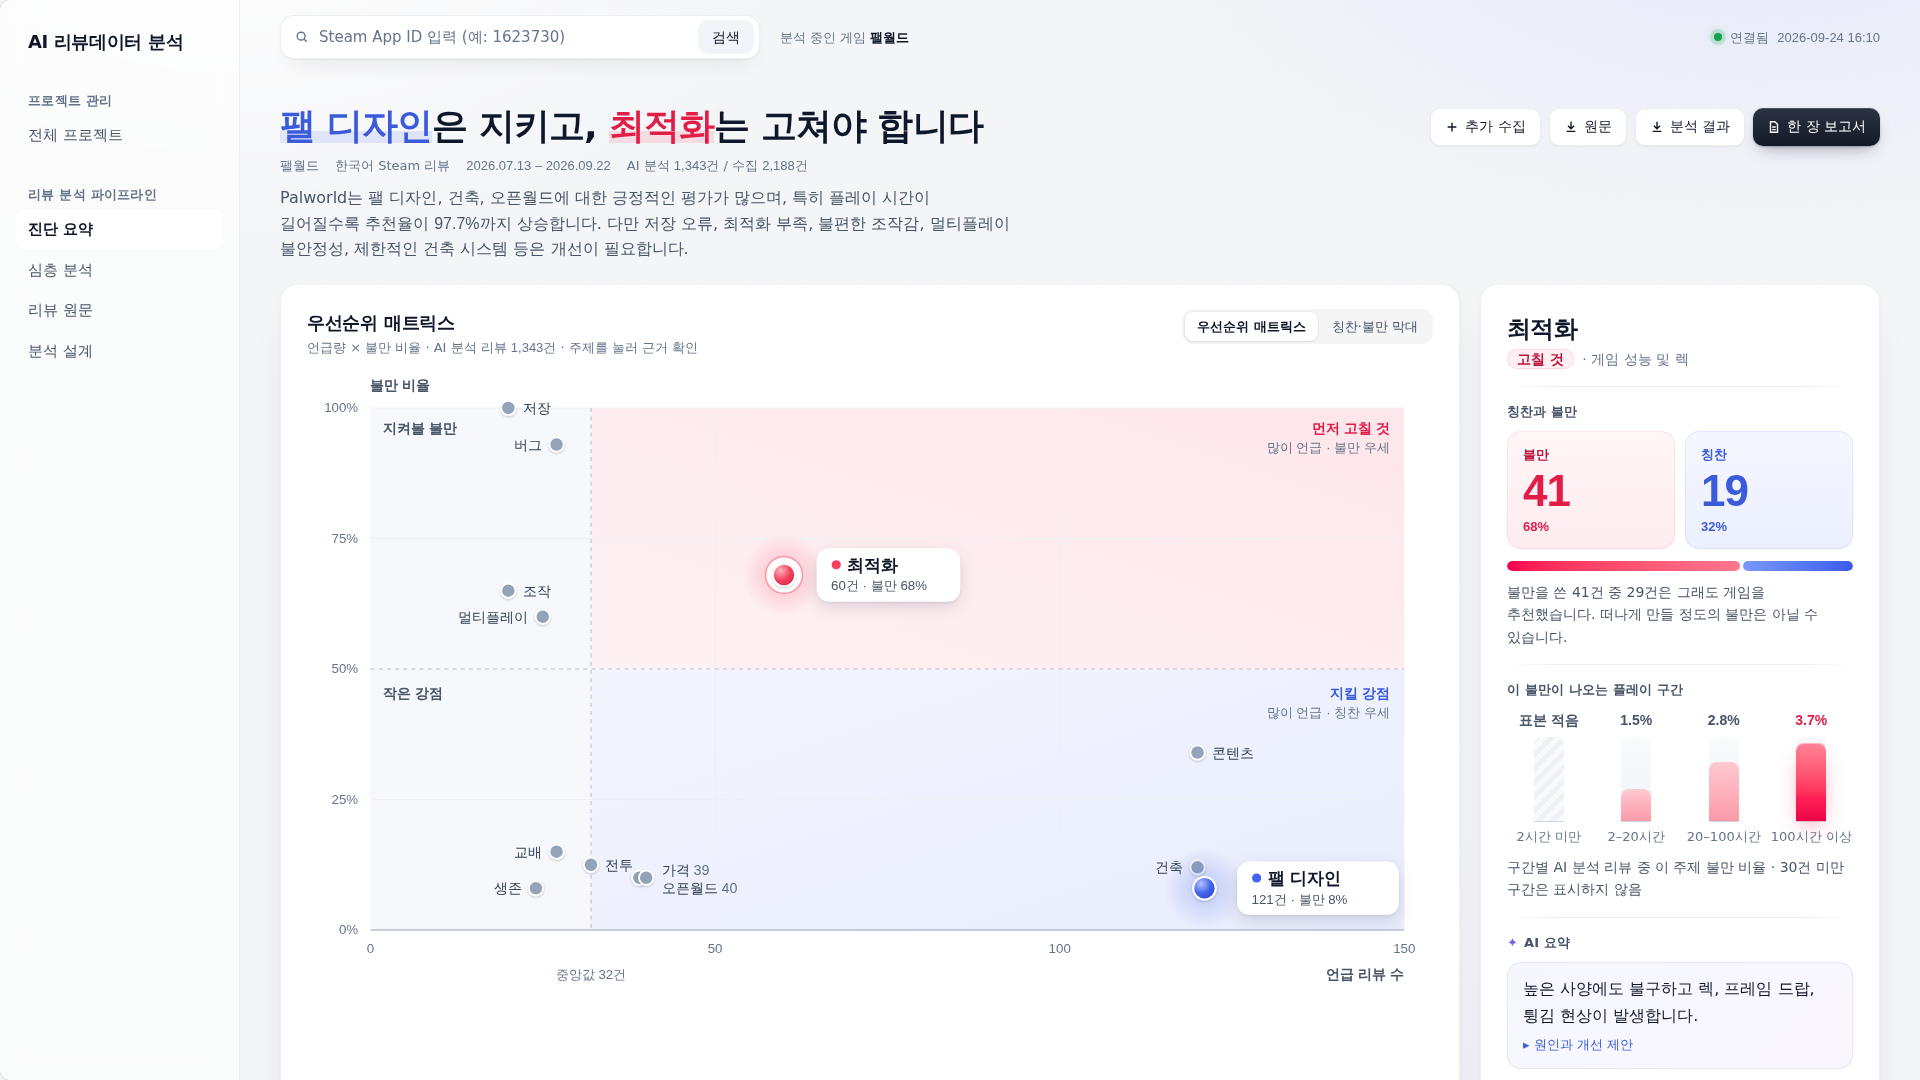
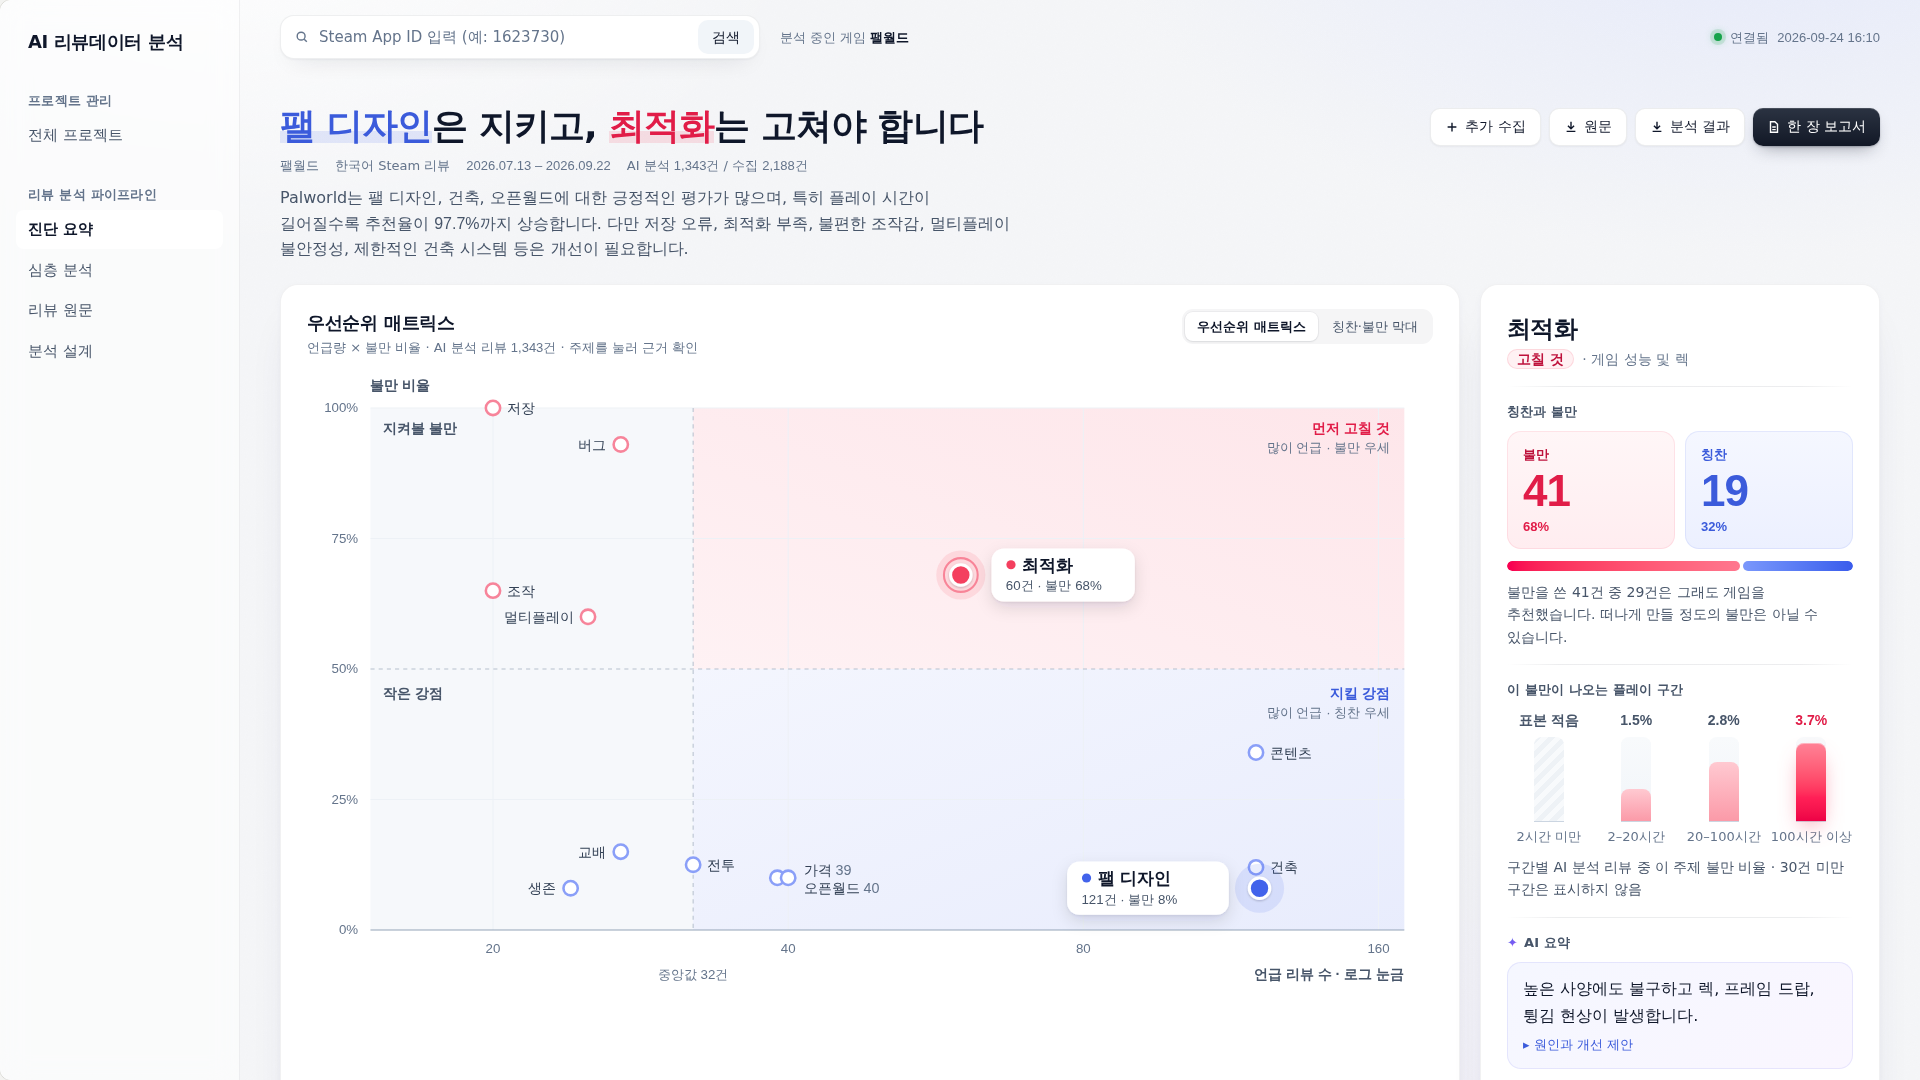
Spread crowded scatter marks and redesign markers
Most topics sat in the left quarter of the priority matrix because mention
counts are skewed on a linear 0-150 axis. Surface polish now calls for a
labeled log scale on skewed count axes, and for zone-tinted hollow rings
on context points with solid, white-ringed highlighted points instead of
glossy spheres. Adds scenario 28 and refreshes the surface-polish case
captures, preview and feedback log.

Claude-Session: https://claude.ai/code/session_01NamhXXNCefJQK75Tp17SMe

diff --git a/evals/cases/surface-polish/layer-preview.html b/evals/cases/surface-polish/layer-preview.html
@@ -305,7 +305,7 @@ const LAYERS=[
   {id:'color',name:'색감',hint:'요즘 톤의 선명한 로즈·블루, 슬레이트 회색',
    say:'색감: 올드한 진홍·남색 대신 요즘 톤으로 바꿔줘. 색마다 "칠하는 색"과 "글자 색"을 따로 둬: 고칠 것은 칠하기 #F43F5E, 글자 #E11D48 / 지킬 것은 칠하기 #4263EB, 글자 #3B5BDB. 회색은 슬레이트 계열 세 단계(#0F172A 본문, #475569 보조, #64748B 약함)와 선 #E2E8F0만 써줘. 검게 채운 버튼은 한 장 보고서 하나만 남기고, 검색 버튼은 연회색(#F1F5F9), 탭 선택은 흰 칩, 불만 리뷰 버튼은 연분홍(#FFF1F3) 배경에 진한 로즈(#BE123C) 글씨로(연한 배경 위 글씨는 대비 4.5:1 이상). 차트 사분면 배경색은 한눈에 빨강·파랑이 구분되게 유지해줘: 먼저 고칠 것 칸은 로즈 13%→7%, 지킬 강점 칸은 블루 12%→6%의 옅은 대각 그라데이션, 왼쪽 두 칸은 아주 옅은 청회색(#F6F8FB).'},
   {id:'data',name:'데이터 마크',hint:'그라데이션 막대, 둥근 끝, 은은한 빛, 수치 타일',
-   say:'데이터 마크 스타일링: 막대·점·비율 막대를 단색으로 칠하지 말고 입체감을 줘. 막대는 위쪽이 밝고(#FF95A3) 아래로 갈수록 진해지는(#F43F5E) 세로 그라데이션, 위쪽 모서리 10px 둥글게, 윗면에 1px 흰 하이라이트, 막대 아래로 같은 색의 부드러운 빛 그림자(불투명도 50% 내외, 가장 큰 막대는 조금 더 강하게). 막대 뒤에는 아주 옅은 트랙 배경을 깔아줘. 칭찬/불만 비율 막대는 높이 10px, 양끝 둥글게, 가로 그라데이션. 차트 점은 지도 크기에 비해 작지 않게 키워줘: 일반 점 반지름 7px, 강조 점 반지름 11px(선택 링 18px). 강조 점은 왼쪽 위가 밝은 원형 그라데이션으로 구슬 같은 볼륨을 줘. 오른쪽 패널의 불만 41 / 칭찬 19는 각 색의 아주 옅은 그라데이션 배경을 가진 두 개의 수치 타일로, "고칠 것"은 연분홍 알약 모양 배지로 바꿔줘. 데이터 값과 좌표는 절대 바꾸지 마.'},
+   say:'데이터 마크 스타일링: 막대·점·비율 막대를 단색으로 칠하지 말고 입체감을 줘. 막대는 위쪽이 밝고(#FF95A3) 아래로 갈수록 진해지는(#F43F5E) 세로 그라데이션, 위쪽 모서리 10px 둥글게, 윗면에 1px 흰 하이라이트, 막대 아래로 같은 색의 부드러운 빛 그림자(불투명도 50% 내외, 가장 큰 막대는 조금 더 강하게). 막대 뒤에는 아주 옅은 트랙 배경을 깔아줘. 칭찬/불만 비율 막대는 높이 10px, 양끝 둥글게, 가로 그라데이션. 차트 점: 일반 점은 반지름 7px의 속이 빈 링(흰 채움 + 2.5px 테두리, 불만 우세 칸은 연한 로즈 #F7849A, 칭찬 우세 칸은 연한 블루 #8A9FF8), 강조 점은 반지름 10px의 꽉 찬 색에 3px 흰 테두리, 그 뒤에 같은 색 12% 원(반지름 24px), 선택된 점은 16.5px 링을 한 겹 더. 광택 구슬 같은 그라데이션은 쓰지 마. 언급 수처럼 한쪽에 몰리는 개수 축은 로그 눈금(20·40·80·160)으로 바꿔 점이 고르게 퍼지게 하고, 축 이름에 "로그 눈금"이라고 표시해줘. 오른쪽 끝에 가까운 점의 라벨 칩은 점 왼쪽에 둬. 오른쪽 패널의 불만 41 / 칭찬 19는 각 색의 아주 옅은 그라데이션 배경을 가진 두 개의 수치 타일로, "고칠 것"은 연분홍 알약 모양 배지로 바꿔줘. 데이터 값과 좌표는 절대 바꾸지 마.'},
   {id:'detail',name:'디테일',hint:'형광펜 강조, 점 후광, 그림자 라벨, AI 요약 박스',
    say:'디테일: 제목의 "팰 디자인", "최적화" 아래쪽 절반에 같은 색 13~14% 형광펜 띠를 깔아줘. 차트의 강조 점 두 개에는 부드러운 후광을 주고, 라벨은 테두리 박스 대신 그림자만 있는 흰 칩으로 바꿔줘. 회색 점에는 흰 테두리와 아주 작은 그림자를 줘. 연결 상태 점에 옅은 초록 빛 링, 패널 구분선은 양 끝이 흐려지는 선, AI 요약은 옅은 청보라 그라데이션 박스에 ✦ 표시, 대표 리뷰는 옅은 배경 칩에 큰 따옴표 장식을 넣어줘.'}
 ];
@@ -330,7 +330,7 @@ function chart(){
   const t1=C?'#334155':'#374151', t2=C?'#475569':'#4B5563', t3=C?'#64748B':'#6B7280', gray=C?'#94A3B8':'#6B7280', grid=C?'#EDF1F6':'#E5E7EB';
   const font=T?'"Noto Sans KR",sans-serif':'system-ui,"Noto Sans KR",sans-serif', num=T?'"Manrope","Noto Sans KR",sans-serif':font;
   const fs=T?14:13, ft=T?13:12, lw=T?500:400;
-  const W=1100,H=610,l=62,r=28,t=40,b=60,pw=W-l-r,ph=H-t-b, sx=x=>l+x/150*pw, sy=y=>t+(1-y/100)*ph;
+  const W=1100,H=610,l=62,r=28,t=40,b=60,pw=W-l-r,ph=H-t-b, X0=15, X1=170, sx=x=>V?l+(Math.log(x)-Math.log(X0))/(Math.log(X1)-Math.log(X0))*pw:l+x/150*pw, sy=y=>t+(1-y/100)*ph;
   const f=`font-family='${font}'`, fn=`font-family='${num}'`;
   let s=`<svg viewBox="0 0 ${W} ${H}" role="img" aria-label="주제별 언급 리뷰 수와 불만 비율 산점도. 최적화 60건 불만 68%, 팰 디자인 121건 불만 8%."><defs>
     <linearGradient id="lF" x1="1" y1="0" x2="0" y2="1"><stop offset="0" stop-color="${fixF}" stop-opacity=".13"/><stop offset="1" stop-color="${fixF}" stop-opacity=".07"/></linearGradient>
@@ -344,15 +344,15 @@ function chart(){
     <filter id="sh" x="-30%" y="-50%" width="160%" height="220%"><feDropShadow dx="0" dy="6" stdDeviation="8" flood-color="#0F172A" flood-opacity=".12"/><feDropShadow dx="0" dy="1" stdDeviation="1" flood-color="#0F172A" flood-opacity=".08"/></filter>
     <filter id="ms" x="-100%" y="-100%" width="300%" height="300%"><feDropShadow dx="0" dy="1" stdDeviation="1.2" flood-color="#0F172A" flood-opacity=".22"/></filter>
   </defs>`;
-  const qx=sx(32), qw=sx(150)-sx(32);
+  const qx=sx(32), qw=l+pw-qx;
   if(C){ s+=`<rect x="${l}" y="${t}" width="${qx-l}" height="${ph}" fill="#F6F8FB"/><rect x="${qx}" y="${sy(100)}" width="${qw}" height="${sy(50)-sy(100)}" fill="url(#lF)"/><rect x="${qx}" y="${sy(50)}" width="${qw}" height="${sy(0)-sy(50)}" fill="url(#lK)"/>`; }
   else { s+=`<rect x="${qx}" y="${sy(100)}" width="${qw}" height="${sy(50)-sy(100)}" fill="#FDECEC"/><rect x="${qx}" y="${sy(50)}" width="${qw}" height="${sy(0)-sy(50)}" fill="#EAF1FD"/><rect x="${l}" y="${t}" width="${qx-l}" height="${ph}" fill="#F9FAFB"/>`; }
   [25,75,100].forEach(v=>s+=`<line x1="${l}" x2="${l+pw}" y1="${sy(v)}" y2="${sy(v)}" stroke="${grid}"/>`);
-  [50,100].forEach(v=>s+=`<line x1="${sx(v)}" x2="${sx(v)}" y1="${t}" y2="${t+ph}" stroke="${grid}"/>`);
+  (V?[20,40,80,160]:[50,100]).forEach(v=>s+=`<line x1="${sx(v)}" x2="${sx(v)}" y1="${t}" y2="${t+ph}" stroke="${grid}"/>`);
   [0,25,50,75,100].forEach(v=>s+=`<text x="${l-12}" y="${sy(v)+4}" text-anchor="end" font-size="${ft}" fill="${t3}" ${fn}>${v}%</text>`);
-  [0,50,100,150].forEach(v=>s+=`<text x="${sx(v)}" y="${t+ph+22}" text-anchor="middle" font-size="${ft}" fill="${t3}" ${fn}>${v}</text>`);
+  (V?[20,40,80,160]:[0,50,100,150]).forEach(v=>s+=`<text x="${sx(v)}" y="${t+ph+22}" text-anchor="middle" font-size="${ft}" fill="${t3}" ${fn}>${v}</text>`);
   s+=`<text x="${l}" y="${t-18}" font-size="${ft+1}" fill="${t2}" ${f} font-weight="600">불만 비율</text>`;
-  s+=`<text x="${l+pw}" y="${t+ph+48}" text-anchor="end" font-size="${ft+1}" fill="${t2}" ${f} font-weight="600">언급 리뷰 수</text>`;
+  s+=`<text x="${l+pw}" y="${t+ph+48}" text-anchor="end" font-size="${ft+1}" fill="${t2}" ${f} font-weight="600">${V?'언급 리뷰 수 · 로그 눈금':'언급 리뷰 수'}</text>`;
   const ref=C?'#B6C0CE':'#9CA3AF';
   s+=`<line x1="${qx}" x2="${qx}" y1="${t}" y2="${t+ph}" stroke="${ref}" stroke-dasharray="4 4"/>`;
   s+=`<line x1="${l}" x2="${l+pw}" y1="${sy(50)}" y2="${sy(50)}" stroke="${ref}" stroke-dasharray="4 4"/>`;
@@ -364,20 +364,26 @@ function chart(){
   s+=q(l+pw-14,sy(50)+28,'end','지킬 강점',keep,'많이 언급 · 칭찬 우세');
   s+=q(l+12,sy(50)+28,'start','작은 강점',t2);
   const mr=V?7:5;
-  const mark=(x,y)=>`<circle cx="${x}" cy="${y}" r="${mr}" fill="${gray}"${D?` stroke="#fff" stroke-width="1.8" filter="url(#ms)"`:''}/>`;
+  const mark=(x,y,up)=>V?`<circle cx="${x}" cy="${y}" r="${mr}" fill="#fff" stroke="${up?'#F7849A':'#8A9FF8'}" stroke-width="2.5"/>`:`<circle cx="${x}" cy="${y}" r="${mr}" fill="${gray}"${D?` stroke="#fff" stroke-width="1.8" filter="url(#ms)"`:''}/>`;
   const tip=(x,y,name,val)=>{if(!on.motion)return '';const w=Math.ceil(Math.max(name.length*14+26,val.length*7.4+26)),tx=x+w+18>l+pw?x-w-14:x+14,ty=y-50;
     return `<g class="tip"><rect x="${tx}" y="${ty}" width="${w}" height="40" rx="9" fill="#0F172A"/><text x="${tx+12}" y="${ty+17}" font-size="12.5" font-weight="700" fill="#fff" ${f}>${name}</text><text x="${tx+12}" y="${ty+32}" font-size="11.5" fill="#CBD5E1" ${fn}>${val}</text></g>`;};
   TOPICS.forEach(p=>{const x=sx(p.x),y=sy(p.y);
-    const lx=p.lp==='r'?x+mr+7:x-mr-7, an=p.lp==='r'?'start':'end';
-    s+=`<g class="pt"><circle cx="${x}" cy="${y}" r="15" fill="transparent"/>`+mark(x,y)+`<text x="${lx}" y="${y+5}" text-anchor="${an}" font-size="${fs}" font-weight="${lw}" fill="${t1}" ${f}>${p.n}</text>`+tip(x,y,p.n,`약 ${p.x}건 · 불만 약 ${p.y}%`)+`</g>`;});
-  PAIR.forEach(p=>{const x=sx(p.x),y=sy(p.y);s+=`<g class="pt"><circle cx="${x}" cy="${y}" r="9" fill="transparent"/>`+mark(x,y)+tip(x,y,p.n,`${p.x}건 · 불만 ${p.y}%`)+`</g>`;});
+    const side=(V&&p.n==='건축')?'r':p.lp, lx=side==='r'?x+mr+7:x-mr-7, an=side==='r'?'start':'end';
+    s+=`<g class="pt"><circle cx="${x}" cy="${y}" r="15" fill="transparent"/>`+mark(x,y,p.y>=50)+`<text x="${lx}" y="${y+5}" text-anchor="${an}" font-size="${fs}" font-weight="${lw}" fill="${t1}" ${f}>${p.n}</text>`+tip(x,y,p.n,`약 ${p.x}건 · 불만 약 ${p.y}%`)+`</g>`;});
+  PAIR.forEach(p=>{const x=sx(p.x),y=sy(p.y);s+=`<g class="pt"><circle cx="${x}" cy="${y}" r="9" fill="transparent"/>`+mark(x,y,false)+tip(x,y,p.n,`${p.x}건 · 불만 ${p.y}%`)+`</g>`;});
   const px=sx(40)+mr+8, py=sy(10);
   s+=`<text x="${px}" y="${py-3}" font-size="${fs}" font-weight="${lw}" fill="${t1}" ${f}>가격 <tspan ${fn} fill="${t3}">39</tspan></text><text x="${px}" y="${py+15}" font-size="${fs}" font-weight="${lw}" fill="${t1}" ${f}>오픈월드 <tspan ${fn} fill="${t3}">40</tspan></text>`;
   const hi=(p,col,fillc,halo,ball,sel)=>{const x=sx(p.x),y=sy(p.y);let o='';
-    if(D) o+=`<circle cx="${x}" cy="${y}" r="${V?40:28}" fill="url(#${halo})"/>`;
-    if(sel) o+=`<circle cx="${x}" cy="${y}" r="${V?18:12.5}" fill="${D?'#fff':'none'}" stroke="${fillc}" stroke-width="1.6" ${D?'stroke-opacity=".45"':''}/>`;
-    o+=`<circle cx="${x}" cy="${y}" r="${V?11:7}" fill="${V?`url(#${ball})`:fillc}"${D?` stroke="#fff" stroke-width="2" filter="url(#ms)"`:''}/>`;
-    const bx=x+(V?32:24), by=y-26, bw=p.n.length>3?158:140, bh=52;
+    if(V){
+      if(D) o+=`<circle cx="${x}" cy="${y}" r="24" fill="${fillc}" opacity=".12"/>`;
+      if(sel) o+=`<circle cx="${x}" cy="${y}" r="16.5" fill="none" stroke="${fillc}" stroke-width="2" stroke-opacity=".55"/>`;
+      o+=`<circle cx="${x}" cy="${y}" r="10" fill="${fillc}" stroke="#fff" stroke-width="3"${D?` filter="url(#ms)"`:''}/>`;
+    } else {
+      if(D) o+=`<circle cx="${x}" cy="${y}" r="28" fill="url(#${halo})"/>`;
+      if(sel) o+=`<circle cx="${x}" cy="${y}" r="12.5" fill="${D?'#fff':'none'}" stroke="${fillc}" stroke-width="1.6" ${D?'stroke-opacity=".45"':''}/>`;
+      o+=`<circle cx="${x}" cy="${y}" r="7" fill="${fillc}"${D?` stroke="#fff" stroke-width="2" filter="url(#ms)"`:''}/>`;
+    }
+    const bw=p.n.length>3?158:140, bh=52, gap=V?30:24, bx=x+gap+bw>l+pw?x-gap-bw:x+gap, by=y-26;
     if(D) o+=`<rect x="${bx}" y="${by}" width="${bw}" height="${bh}" rx="12" fill="#fff" filter="url(#sh)"/>`;
     else o+=`<rect x="${bx}" y="${by}" width="${bw}" height="${bh}" rx="6" fill="#fff" stroke="${col}" stroke-width="1.2"/>`;
     if(on.refine){o+=`<circle cx="${bx+19}" cy="${by+16}" r="4.5" fill="${fillc}"/><text x="${bx+30}" y="${by+22}" font-size="${T?17:16}" font-weight="700" fill="#0F172A" ${f}>${p.n}</text>`;}

diff --git a/skills/game-tool-visual-director/references/surface-polish.md b/skills/game-tool-visual-director/references/surface-polish.md
@@ -20,7 +20,7 @@ Measure the rendered screen with [style inventory](../scripts/style-inventory.js
 | 2. Surface and elevation (표면과 그림자) | Cards, radii, borders, shadows, elevation levels | Cards separated by gaps; one radius family (controls ≈10px, cards ≈16–18px); hairline borders (≈6% ink); 2–3 layered shadows tinted with the canvas hue, strongest layer ≤ 16%; 1px top highlight; three elevation levels (raised cards, low chips, floating tooltips) | One hard grey shadow; dividers everywhere |
 | 3. Type and readability (글꼴과 가독성) | Scale, sizes, weights, line length, numerals, Hangul wrapping | ≤ 8 sizes and none under 13px; body 15–16px at line-height 1.6–1.75; Hangul body letter-spacing 0 (tighten only headings ≥ 24px); `word-break: keep-all`; paragraphs ≤ ≈72 characters; tabular numerals for columns and axes, proportional for hero numbers; section labels in secondary ink, not the faintest grey | Words split mid-word; 12px grey metadata; a dozen sizes |
 | 4. Color (색감) | Hue roles, neutrals, filled controls, semantic zones | Each hue has a fill color and a darker text color (≥ 4.5:1 on its background); vivid fills defined in OKLCH with a hex fallback; neutrals tinted toward the canvas hue (three text steps plus one line color); one dark filled control per view; semantic zones the viewer relies on stay readable at a glance | Muted crimson and navy that read as dated; four black buttons; saturated color on large blocks |
-| 5. Data marks (데이터 마크) | Bars, points, ratio bars, stat tiles | Bars: vertical tonal gradient (lighter top to base hue), rounded data end (8–10px), square baseline, faint track, width capped (≈24–32px); points sized to the plot (context r ≈7, highlight r ≈10–12 on a ≈1000px plot) with a surface ring; highlighted points with a spherical radial gradient; ratio bars 8–12px with rounded ends; key numbers in tinted stat tiles | Flat solid fills; dots too small for the plot; bars filling the slot |
+| 5. Data marks (데이터 마크) | Bars, points, scale spread, ratio bars, stat tiles | Bars: vertical tonal gradient (lighter top to base hue), rounded data end (8–10px), square baseline, faint track, width capped (≈24–32px). Points sized to the plot (r ≈7 context, r ≈10 highlight on a ≈1000px plot): context points as hollow rings tinted by their zone, highlighted points solid with a white ring and a soft same-hue disc; no glossy sphere gradients. Marks should spread across the plot: when a skewed count axis crowds most marks into one side, use a labeled log scale. Ratio bars 8–12px with rounded ends; key numbers in tinted stat tiles | Flat solid fills; dots too small for the plot; most marks crammed into a quarter of the plot; glossy or skeuomorphic markers; bars filling the slot |
 | 6. Details (디테일) | Keyword marks, halos, label chips, callouts, quotes, dividers | Each detail attaches to content: a marker band under key words, a soft halo on the selected mark, label chips with shadow instead of bordered boxes, fading dividers, a tinted callout for AI summaries, a quote chip | Ornaments with no meaning, such as a decorative logo square |
 | 7. Emphasis contrast (강약 조절) | What is loudest | One strongest element per region; only the key bar at full strength, others one lighter step; value labels colored only for the emphasized item | Every element equally loud after polish |
 | 8. Motion and response (움직임과 반응) | Entrance, hover, feedback | Bars grow on entrance (≤ 600ms, ≈60ms stagger); hovering a mark dims context marks to ≈40% but never the highlighted or selected marks and their labels; tooltip ≈160ms; hit target larger than the mark; controls lift 1px on hover; `prefers-reduced-motion` removes motion | Dimming everything, including what the viewer is reading |

diff --git a/skills/game-tool-visual-director/references/taste-presets.md b/skills/game-tool-visual-director/references/taste-presets.md
@@ -37,7 +37,7 @@ Reviewed on the review-dashboard mockup in `evals/cases/surface-polish` (see its
 | Surface and elevation | Cards 20px apart, radius 18px, border `rgba(15,23,42,.06)`; shadow `inset 0 1px 0 rgba(255,255,255,.9), 0 1px 1px rgba(40,52,110,.035), 0 3px 8px rgba(40,52,110,.035), 0 24px 48px -24px rgba(40,52,110,.16)`; controls radius 10px with a 1px, 5% shadow; primary button gradient #2B3342 → #121826 with a 14% white top highlight; no dividers inside cards, spacing instead |
 | Type and readability | Hangul: Pretendard or Noto Sans KR; numerals: Manrope. Sizes 13 · 14 · 15 · 16 · 18 · 24 · 36 · 44px only. Headline 36px/700, letter-spacing −2.5%; panel title 24px; hero numbers 44px, proportional figures. Body 16px, line-height 1.6, letter-spacing 0; summaries ≤ 72 characters wide; `word-break: keep-all`; section labels 13px/600 in #475569 |
 | Color | Neutrals #0F172A (text), #475569 (secondary), #64748B (muted), #E2E8F0 (line). Fix/negative: fill #F43F5E (`oklch(64.5% .246 16.4)`), text #E11D48, text on its tint #BE123C, tint #FFF1F3. Keep/positive: fill #4263EB (`oklch(55% .215 268)`), text #3B5BDB, tint #EEF2FF. One dark filled button per view; search button #F1F5F9; selected tab as a white chip. Quadrant zones visibly tinted: rose 13% → 7% and blue 12% → 6% diagonal gradients, neutral columns #F6F8FB |
-| Data marks | Key bar gradient #FF95A3 → #F43F5E → #E8354F, top radius 8–10px, square baseline, width ≤ 30px, track #F1F5F9, glow `0 10px 22px -8px` at 75% of the hue; other bars one step lighter (#FFC9D1 → #FB9AA8) without glow. Ratio bar 10px, rounded, horizontal gradient. Scatter context points r 7px grey #94A3B8 with a white 1.8px ring; highlighted points r 11px with a radial gradient lit from the upper left, selection ring r 18px. Key counts as two tinted stat tiles |
+| Data marks | Key bar gradient #FF95A3 → #F43F5E → #E8354F, top radius 8–10px, square baseline, width ≤ 30px, track #F1F5F9, glow `0 10px 22px -8px` at 75% of the hue; other bars one step lighter (#FFC9D1 → #FB9AA8) without glow. Ratio bar 10px, rounded, horizontal gradient. Scatter context points r 7px as hollow rings (white fill, 2.5px stroke: #F7849A in complaint-dominant zones, #8A9FF8 in praise-dominant zones); highlighted points r 10px solid with a 3px white ring over a same-hue 12% disc (r 24px), plus a 55% ring at r 16.5px when selected; no glossy sphere gradients. Mention-count x-axis on a log scale (ticks 20 · 40 · 80 · 160, labeled 로그 눈금); label chips flip to the left near the right edge. Key counts as two tinted stat tiles |
 | Details | Marker band behind headline keywords (lower third, hue at 13–14%); soft halo r ≈40px behind highlighted points; white label chips (radius 12px, soft shadow) with a colored dot and ink text; fading dividers in panels; AI summary in a violet-blue tinted callout with ✦; quote chip with a large, faint opening mark. No decorative logo marks |
 | Emphasis | Only the key bar and its value in full color; everything else one step quieter |
 | Motion | Bars grow 0.6s `cubic-bezier(.2,.8,.2,1)`, 60ms stagger; hover dims context marks to 40%, never highlighted marks or labels; dark tooltip after 160ms; buttons lift 1px; all motion off under `prefers-reduced-motion` |

diff --git a/CHANGELOG.md b/CHANGELOG.md
@@ -7,7 +7,8 @@
 - Switch to a layer-toggle preview or variants when rounds plateau. Name the technique when the user shows a reference, and apply it without copying.
 - Reframe the gradient and shadow caution: they never fix hierarchy, but they are a required surface layer once hierarchy works.
 - Add `scripts/style-inventory.js`, a browser-evaluated count of text sizes, colors, contrast flags, Hangul mid-word breaks, borders, shadows, dark filled controls, and chart-mark fills.
-- Add regression scenarios 21–27 and the surface-polish reference case with before and after renders and user feedback.
+- Spread crowded scatter marks with a labeled log scale for skewed count axes, and use zone-tinted hollow rings for context points with solid highlighted points.
+- Add regression scenarios 21–28 and the surface-polish reference case with before and after renders and user feedback.
 
 Evidence comes from a mockup the user reviewed, not from a candidate run against the real application. An old/candidate comparison is still pending.
 
